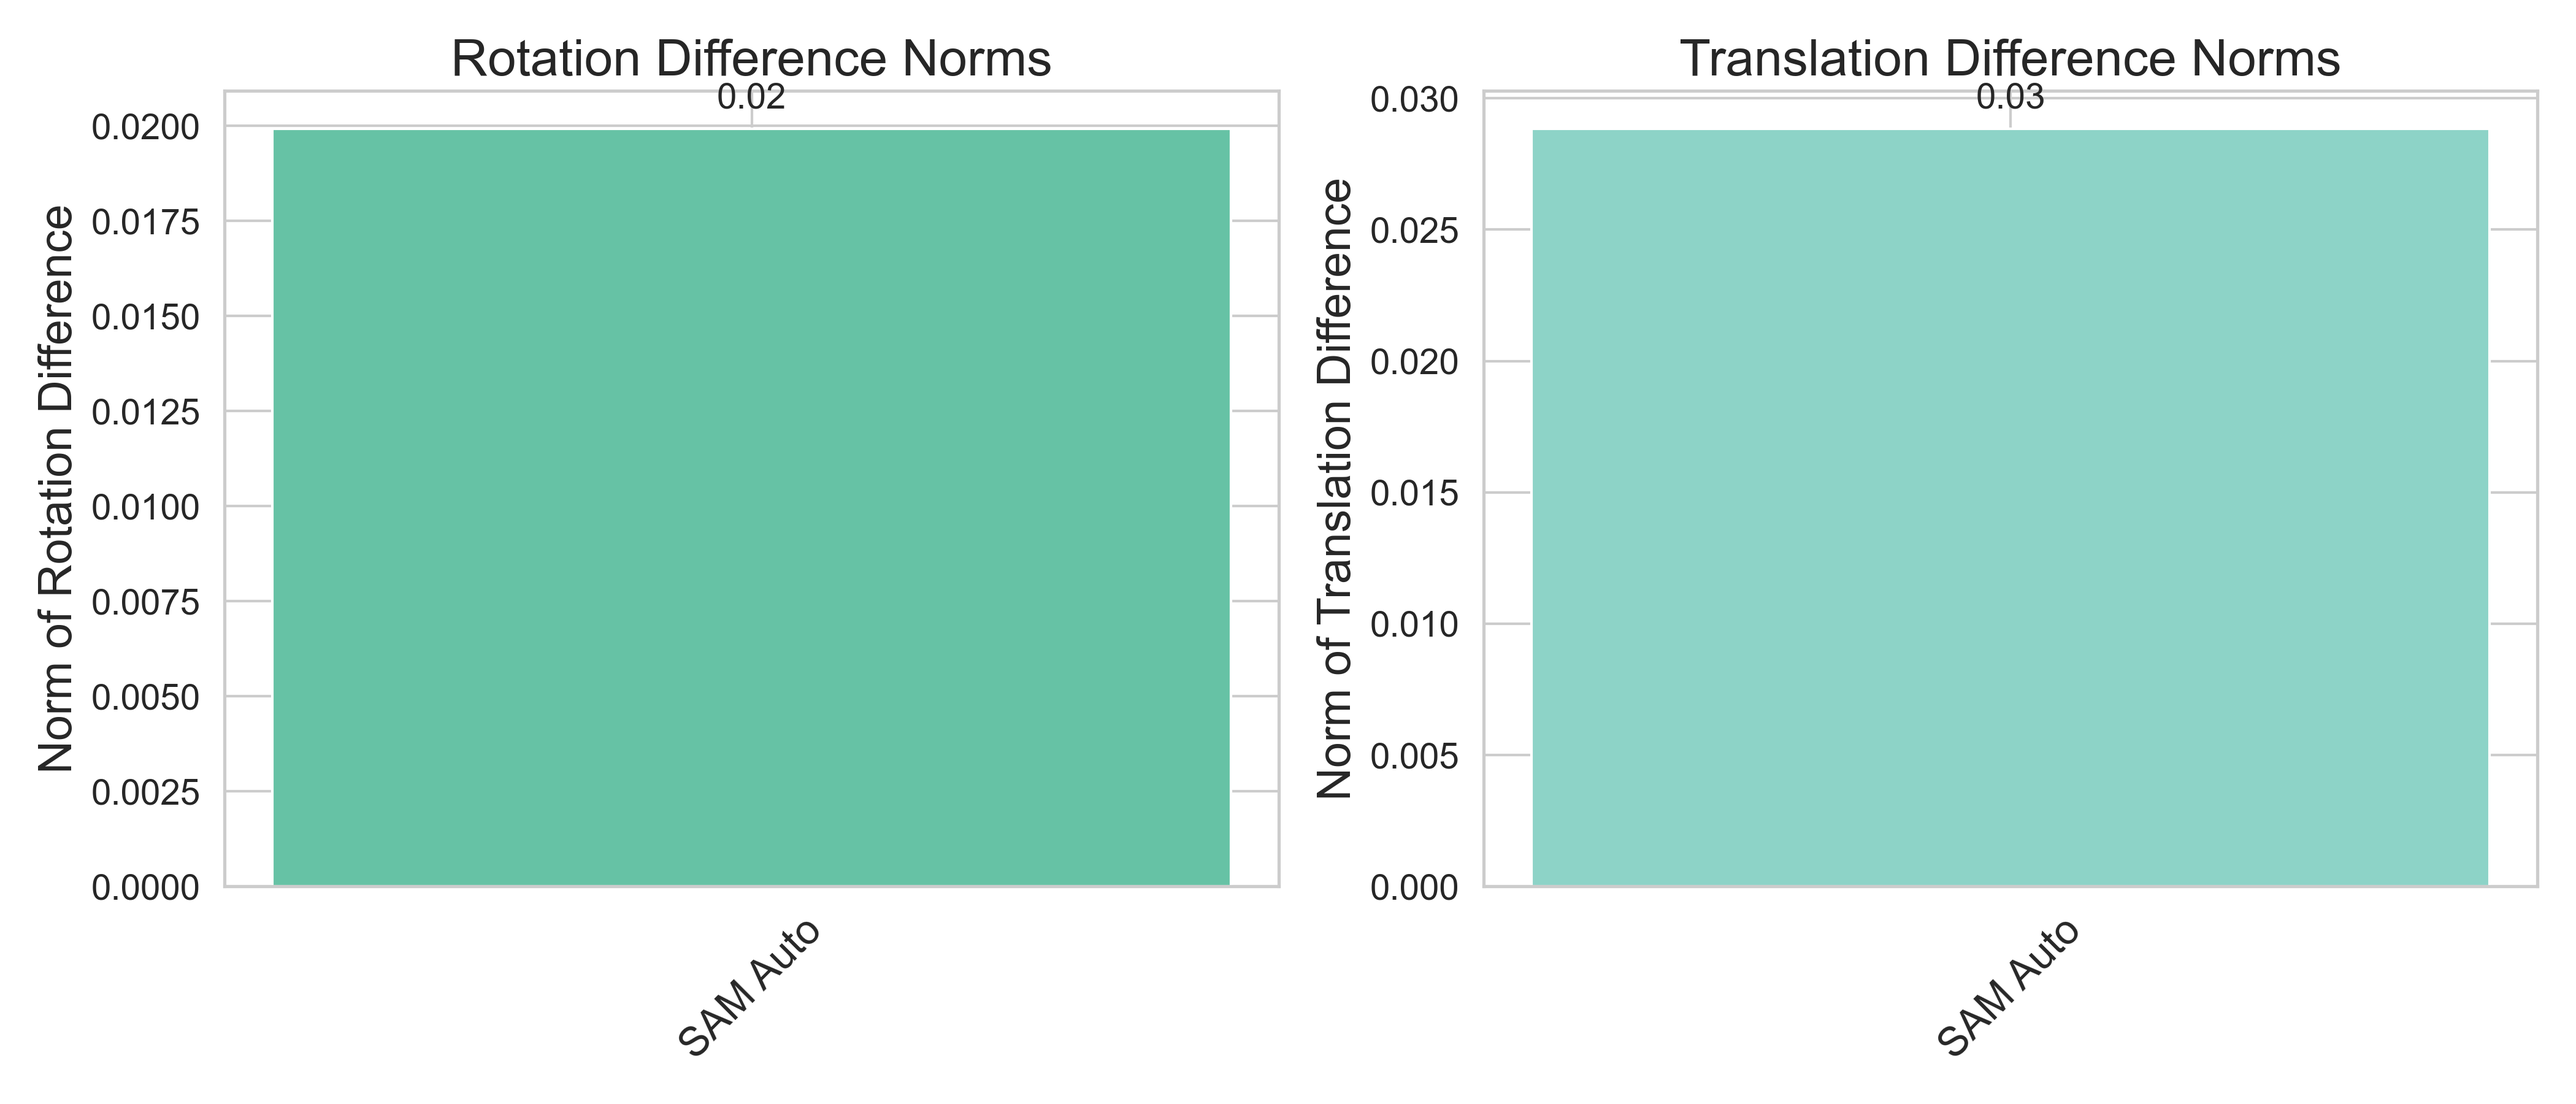
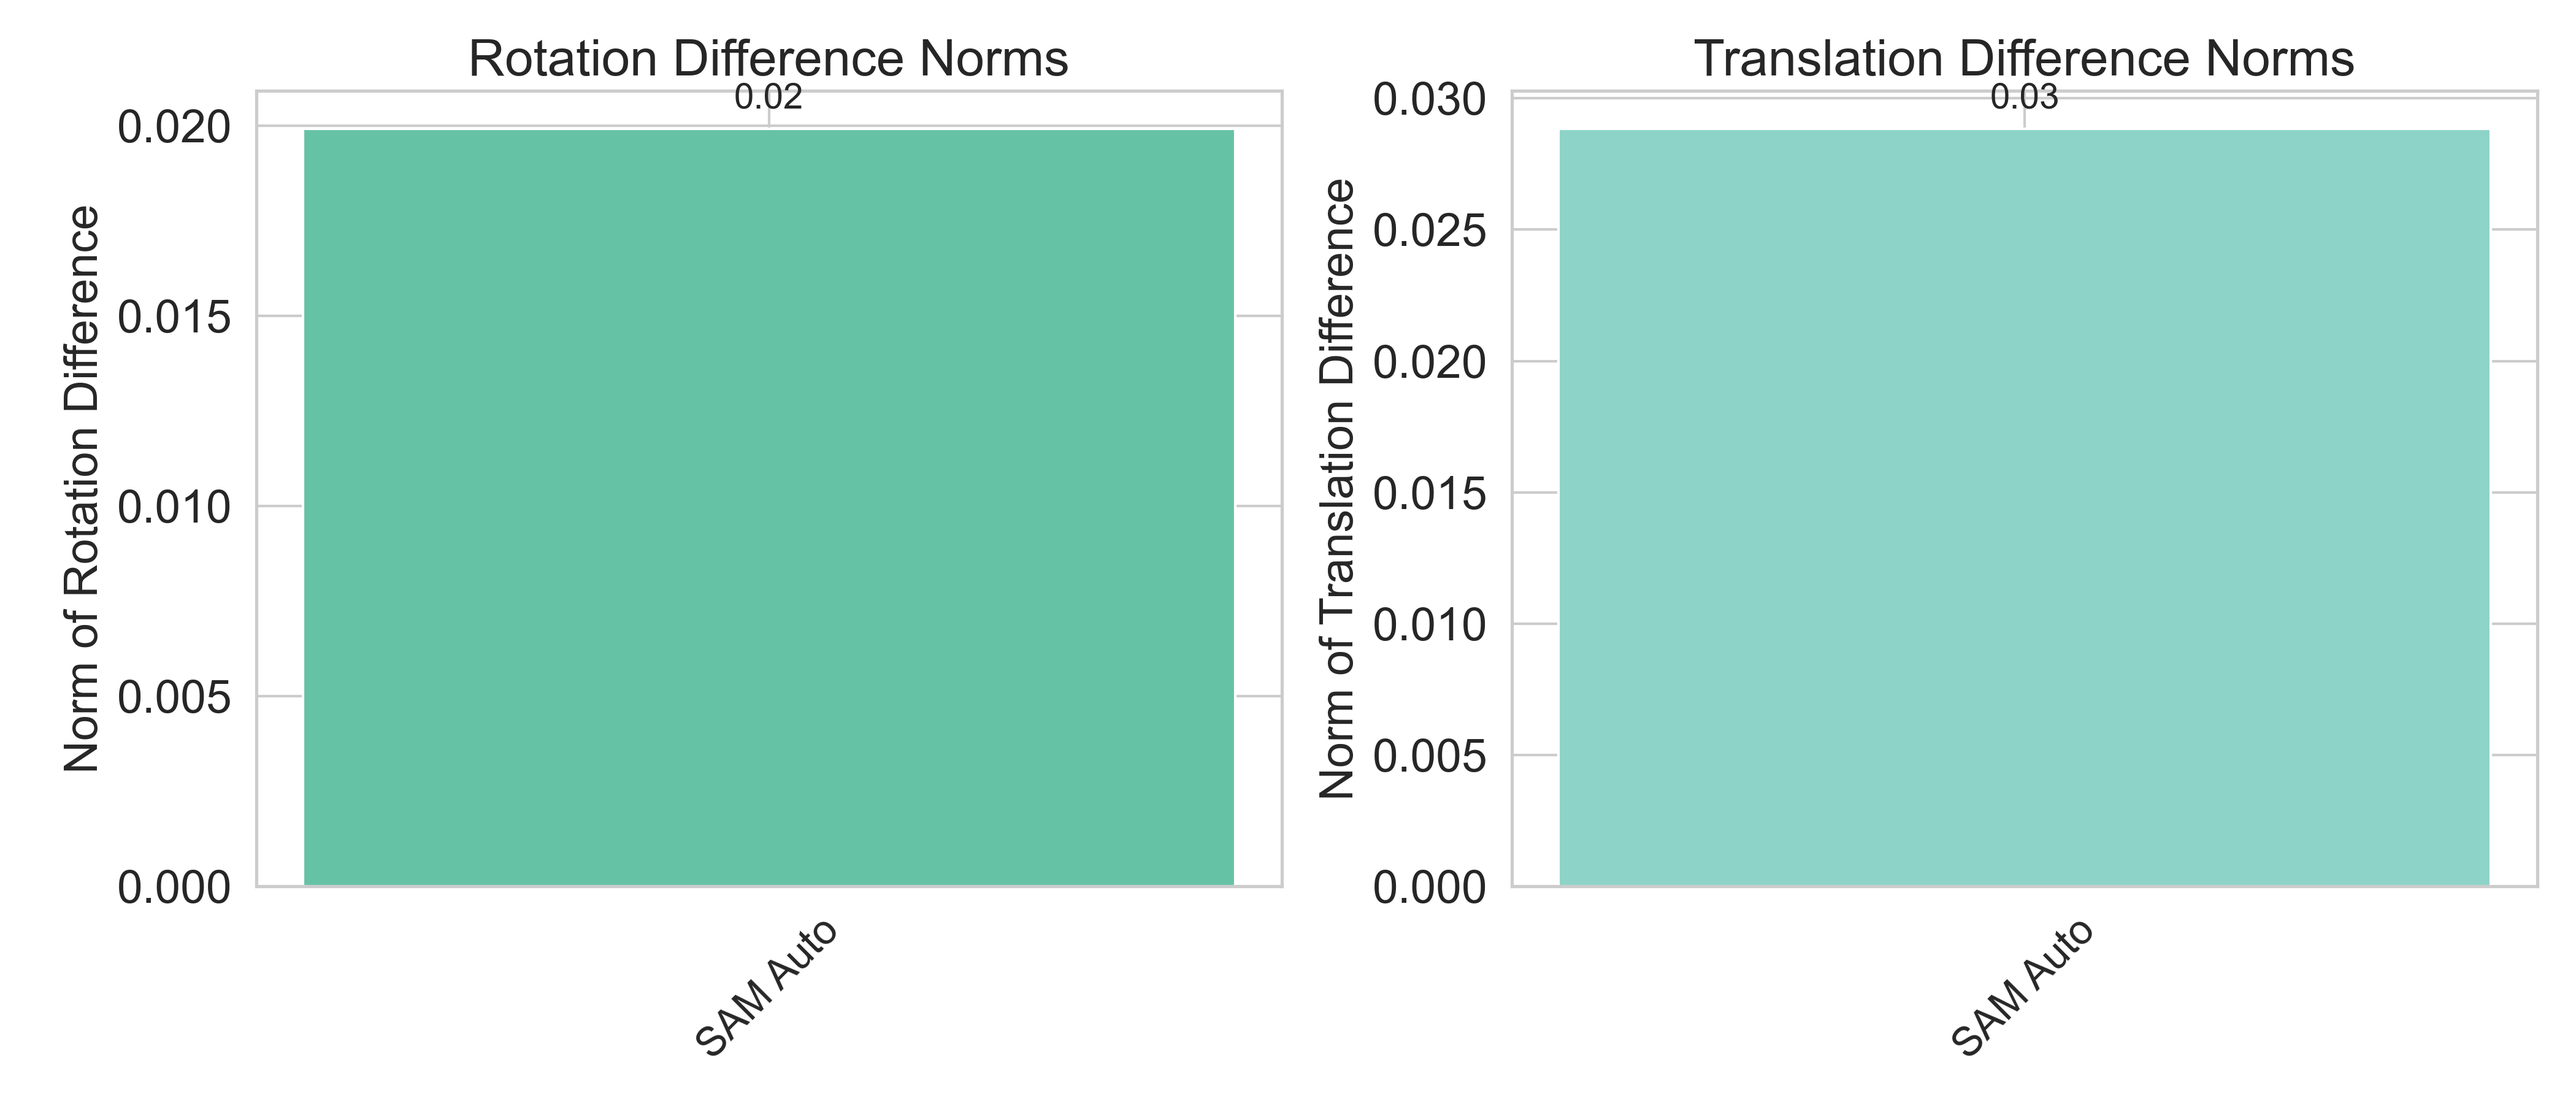
Resource metrics images added

diff --git a/SAM_approach/smart_segmentation_resource_usage.py b/SAM_approach/smart_segmentation_resource_usage.py
@@ -23,8 +23,8 @@ plt.rcParams.update({
     'font.size': 14,
     'axes.titlesize': 18,
     'axes.labelsize': 16,
-    'xtick.labelsize': 14,
-    'ytick.labelsize': 14,
+    'xtick.labelsize': 18,
+    'ytick.labelsize': 18,
     'legend.fontsize': 14
 })
 
